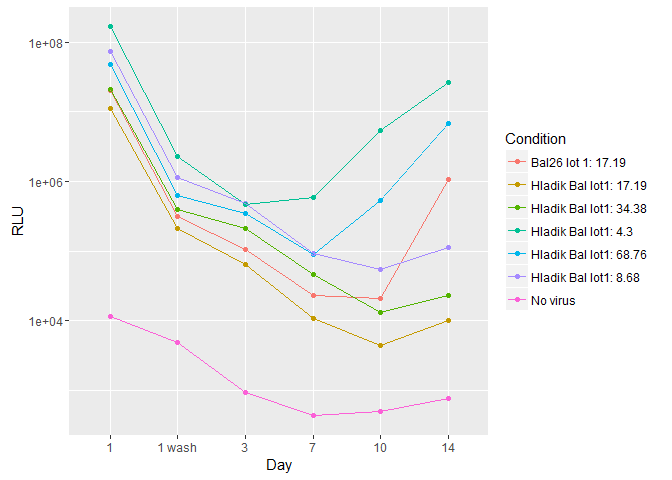
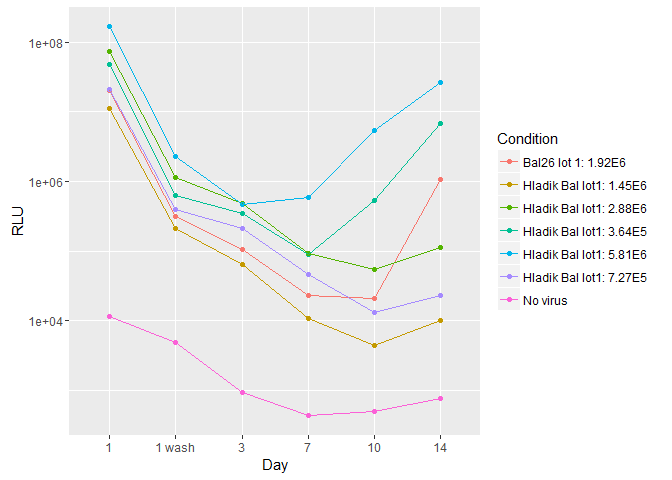
Changed from using dilution factor of virus to pfu/ml

diff --git a/titration_analysis.md b/titration_analysis.md
@@ -10,17 +10,17 @@ Titration 001
 
 This is a plot of luciferase production over days 1 - 14 for multiple conditions. The "Hladik Bal lot1" virus is vNL\_sNLuc\_6ATRi.B.Bal.ecto made by Greg Mize
 
--   The conditions are in the format virus type:dilution factor.
+-   The conditions are in the format virus type: pfu/ml.
 
 -   Day 1 supernatent still contains input virus. 1 wash is still day 1 but after the explants have been washed to remove input virus.
 
--   Hladik Bal26 lot1 with a dilution factors of 34.38 or 17.19 look closest to RA/KW's virus.
+-   Hladik Bal26 lot1 with pfu.ml of 1.45E6 or 7.27E5 look closest to RA/KW's virus.
 
 ![](titration_analysis_files/figure-markdown_github/unnamed-chunk-1-1.png)
 
 This is a plot of the luciferase over time from day1- 21 but we included fewer conditions based on the results from the first run of d1-14 with all conditions.
 
--   Hladik Bal26 lot1 with a dilution factor of 17.19 looks closest to Bal26 lot1.
+-   Hladik Bal26 lot1 with a pfu/ml of 1.45E6 looks closest to Bal26 lot1.
 
 ![](titration_analysis_files/figure-markdown_github/unnamed-chunk-2-1.png)
 
@@ -29,18 +29,18 @@ Titration 002
 
 Lucia set up a second titration experiment on 14June16.
 
--   Hladik Bal with a dilution factor of 25 matches the kinetics of Bal26 lot1, but I'm not sure why they are so different from all the other conditions.
+-   Hladik Bal with a dilution factor of 5.4E5 matches the kinetics of Bal26 lot1, but I'm not sure why they are so different from all the other conditions.
 
 ![](titration_analysis_files/figure-markdown_github/unnamed-chunk-3-1.png)
 
 Conclusions
 -----------
 
--   Based on three nanoluc assays from two different titrations, the dilution factors for Hladik Bal lot1 virus that resulted in kinetics that were closest to Bal26 lot1 were a range between ~9 to 25.
+-   Based on three nanoluc assays from two different titrations, the dilution factors for Hladik Bal lot1 virus that resulted in kinetics that were closest to Bal26 lot1 were a range between 2.88E6 to 5.4E5.
 
 Caveats
 -------
 
 -   The "No virus" control was kind of high for the second titration.
 
--   The Bal26 lot1 and Hladik Bal lot1 lines, both with dilution factor of 17.91 were very low compared to all the other dilutions
+-   The Bal26 lot1 at 1.92E6 and and Hladik Bal lot1 at 5.4E5 were very low compared to all the other dilutions
